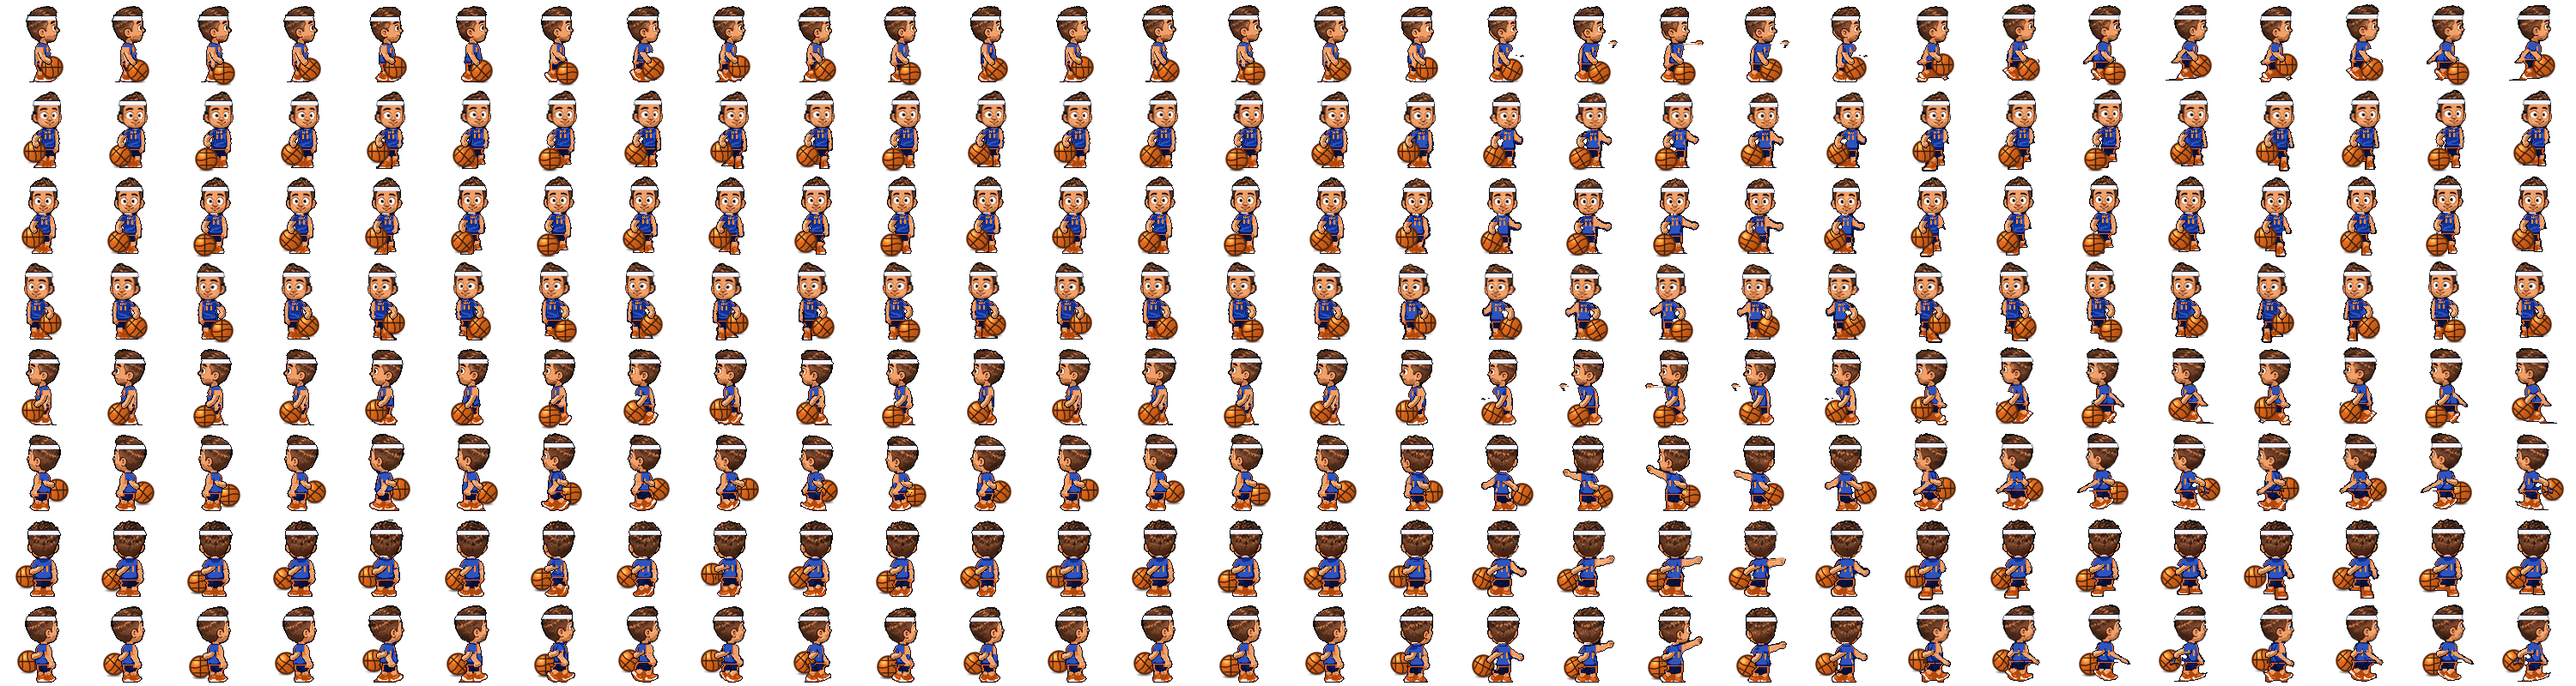
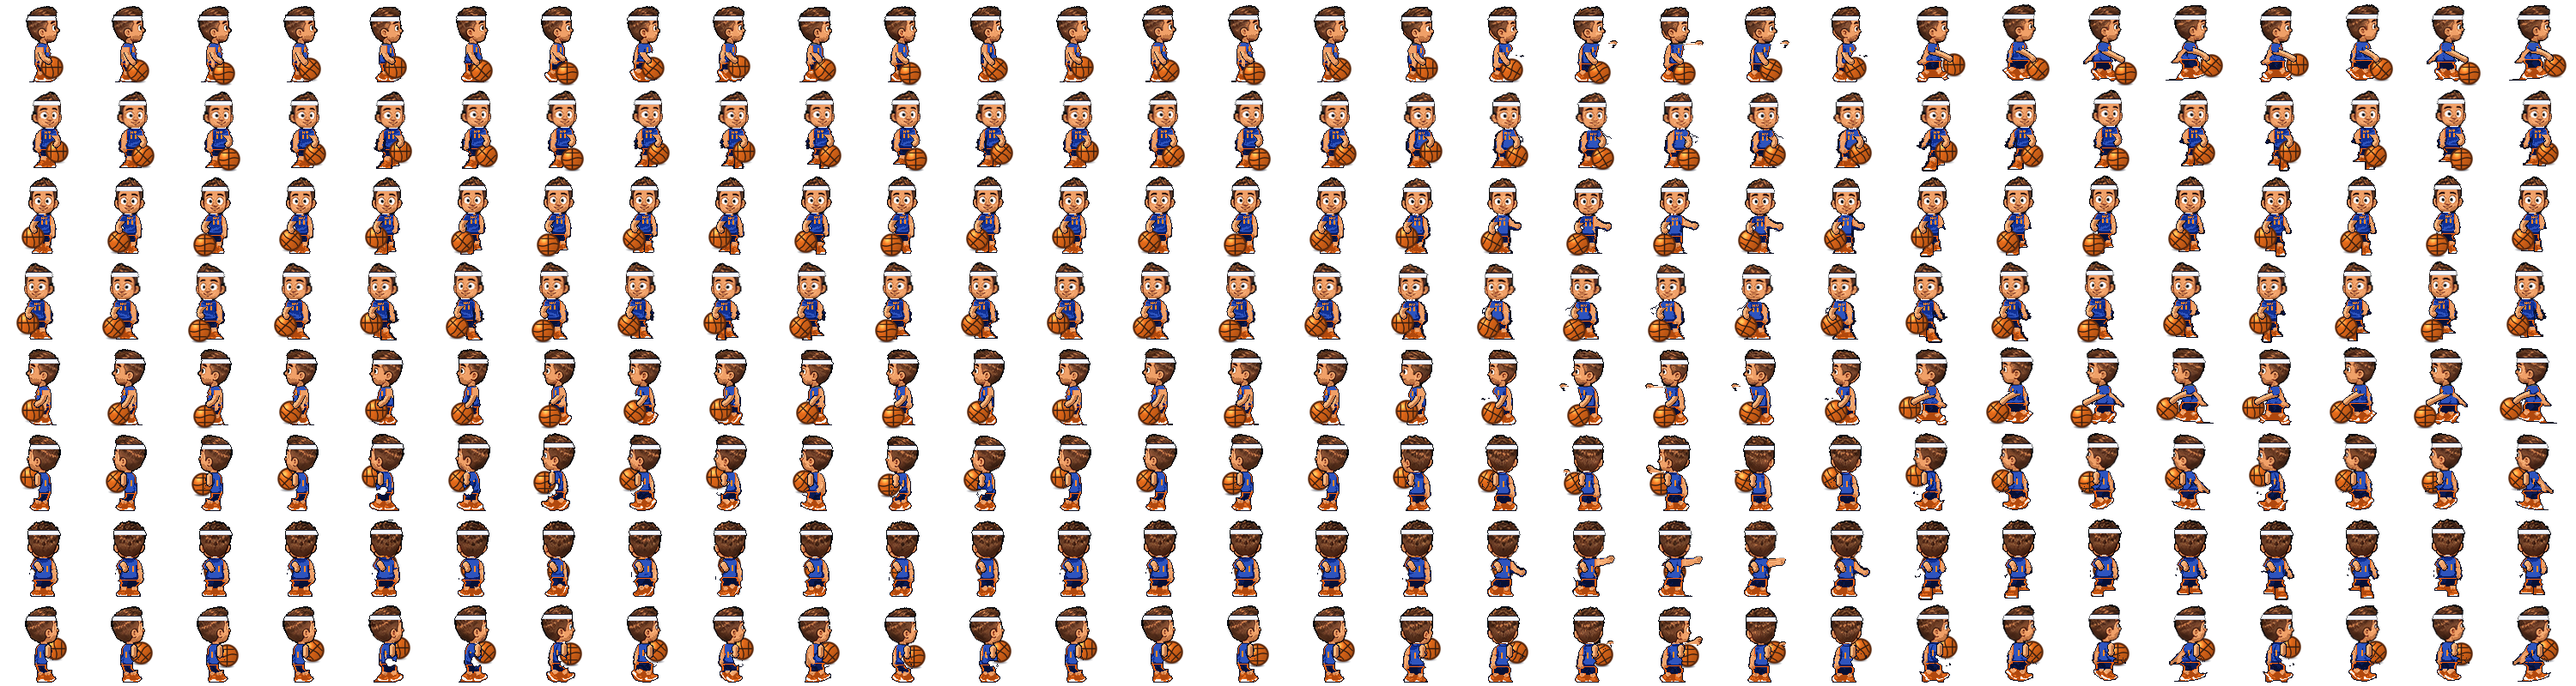
Lead the ball along the facing direction.
Northeast and northwest dribbles sit up and to the side he faces, north
stays high behind the torso, and an east or west run pushes the ball
past the lead foot. The back-view arm is one straight limb, and every
frame checks that the ball leads the body.

diff --git a/phaser-tag-client/tools/make_basketball_skin.py b/phaser-tag-client/tools/make_basketball_skin.py
@@ -25,8 +25,9 @@ filled. The other arm is unchanged. At most two arms are visible.
   5. an orange basketball, still a circle, dribbled on every frame.
      Seams are pre-rendered at a few rotations so the spin stays crisp.
      The ball stays in front of him along the way he faces: lower on
-     screen when he faces the camera, just ahead of the front foot in
-     profile, and behind the body when he faces away.
+     screen when he faces the camera, ahead of the front foot in
+     profile (further ahead on a run), and higher on screen, partly
+     behind the body, when he faces away.
 
 Face, hair and neck (under the headband) are James's.
 
@@ -731,10 +732,12 @@ def _dribble_side(direction: str) -> float:
 def _layout(g: Geometry, direction: str):
     """Rest pose and the ball's high/low centres.
 
-    The arm hangs. Its hand sits on the crown of the ball at the top of
-    the bounce, and the ball drops to the ground without the arm chasing.
+    The ball leads him in the direction he faces. On a back view that is
+    higher on the screen, partly behind the torso. The arm hangs to the
+    hand, which sits on the crown of the ball at the top of the bounce.
     """
-    side = _dribble_side(direction)
+    side = _ball_side(direction)
+    fx, fy = _FACE[direction]
     cx, neck, hem = float(g.head_cx), float(g.neck), float(g.hem)
     floor_y = 98.0 - BALL_R
     if direction in PROFILE:
@@ -745,17 +748,38 @@ def _layout(g: Geometry, direction: str):
         ball = (cx + face * 11.0, hem - 4.0)
         low = min(hem + 6.0, floor_y)
     elif direction in BACK:
-        # the limb stays behind the torso; the mitt is what peeks out
-        shoulder = (cx + side * 2.5, neck + 9.0)
-        elbow = (cx + side * 3.5, neck + 16.0)
-        hand = (cx + side * 12.0, hem - 18.0)
-        ball = (cx + side * 16.5 + _FACE[direction][0] * 2.0, hem - 12.0)
-        low = hem - 6.0
+        # Higher than the hips, and off to the side he is facing, so the
+        # ball leads him. North has nowhere to go sideways, so it sits
+        # behind the chest. The arm travels one way, down and out to the
+        # near side of the ball. A hook back up splits the limb and leaves
+        # a navy gap where the shirt shows through.
+        if fx == 0.0:
+            ball_x = cx + side * 1.0
+            high_y = neck + 8.0
+            shoulder = (cx + side * 8.0, neck + 8.0)
+            hand = (ball_x + side * 4.0, high_y + 5.0)
+        else:
+            ball_x = cx + fx * 15.0
+            high_y = neck + 6.0
+            # A near-vertical arm. A sideways one is a wide slab on
+            # screen, and the jersey shows through the steps.
+            shoulder = (cx + side * 7.0, neck + 5.0)
+            # The mitt stops on the ball. A longer arm ran past it and
+            # left the hand dangling under the ball.
+            hand = (ball_x - side * 8.0, high_y + 7.0)
+        low = high_y + 8.0
+        # Straight, so the outline is one capsule and not a kink.
+        elbow = (
+            (shoulder[0] + hand[0]) * 0.5,
+            (shoulder[1] + hand[1]) * 0.5,
+        )
+        ball = (ball_x, high_y)
     elif direction in ("SE", "SW"):
-        shoulder = (cx + side * 8.5, neck + 7.0)
-        elbow = (cx + side * 13.5, hem - 19.0)
-        hand = (cx + side * 11.5, hem - 14.0)
-        ball = (cx + side * 13.0, hem - 6.0)
+        # In front of him: lower on screen, and to the side he faces.
+        shoulder = (cx + fx * 8.5, neck + 7.0)
+        elbow = (cx + fx * 13.5, hem - 19.0)
+        hand = (cx + fx * 11.5, hem - 14.0)
+        ball = (cx + fx * 13.0, hem - 6.0)
         low = min(hem + 5.0, floor_y)
     else:
         shoulder = (cx + side * 8.0, neck + 7.0)
@@ -1155,14 +1179,17 @@ def draw_dribble_arm(rgba: np.ndarray, g: Geometry, direction: str,
 
     # the root sits under the jersey so the limb grows out of the body
     # instead of a floating cap. Those pixels are his, put back as they were.
+    # A back-view arm is short and lies on the ball. Putting the shirt back
+    # over that root was slicing the limb and leaving a navy shard.
     base = premul(rgba)
     tucked = to_u8(over(base, layer))
     if forearm_only:
         ex, ey = elbow
         near = (np.hypot(X - ex, Y - ey) <= 3.0) & (rgba[..., 3] > 200)
-    else:
+        tucked[near] = rgba[near]
+    elif direction not in BACK:
         near = (np.hypot(X - sx, Y - sy) <= 5.2) & (Y <= sy + 1.5) & (rgba[..., 3] > 200)
-    tucked[near] = rgba[near]
+        tucked[near] = rgba[near]
     rgba[...] = tucked
 
 
@@ -1626,9 +1653,14 @@ def _dribble_skin(src: np.ndarray, g: Geometry, direction: str,
 
 
 def _ball_side(direction: str) -> float:
-    """Screen side of the hand on the ball. In profile that is the way he faces."""
-    if direction in PROFILE:
-        return float(PROFILE[direction])
+    """Screen side of the hand on the ball.
+
+    That is the way he faces. North and south have no sideways facing, so
+    the hand stays on the non-tagging side.
+    """
+    fx = _FACE[direction][0]
+    if fx != 0.0:
+        return fx
     return _dribble_side(direction)
 
 
@@ -1708,9 +1740,10 @@ def fold_dribble_limb(src: np.ndarray, g: Geometry, direction: str) -> tuple[np.
     dark = (f[..., 3] > 40) & (L < 70)
     exterior = ((limb | (near & dark)) & ~core)
     # shirt-like, so paint_uniform treats the covered torso as cloth
-    f[interior, 0] = 96
-    f[interior, 1] = 96
-    f[interior, 2] = 80
+    # A real jersey colour, so a pixel paint misses is still in the palette.
+    f[interior, 0] = int(JERSEY_MID[0])
+    f[interior, 1] = int(JERSEY_MID[1])
+    f[interior, 2] = int(JERSEY_MID[2])
     f[interior, 3] = 255
     f[exterior] = 0
 
@@ -1726,9 +1759,9 @@ def fold_dribble_limb(src: np.ndarray, g: Geometry, direction: str) -> tuple[np.
             x1 = int(xs[i + 1])
             if x1 <= x0 or not core[y, x0:x1].all():
                 continue
-            f[y, x0:x1, 0] = 96
-            f[y, x0:x1, 1] = 96
-            f[y, x0:x1, 2] = 80
+            f[y, x0:x1, 0] = int(JERSEY_MID[0])
+            f[y, x0:x1, 1] = int(JERSEY_MID[1])
+            f[y, x0:x1, 2] = int(JERSEY_MID[2])
             f[y, x0:x1, 3] = 255
     kept = core & ((src[..., 3] > 40) | interior)
     return f, kept
@@ -1838,15 +1871,41 @@ def prepare_james(src: np.ndarray, g: Geometry, direction: str) -> tuple[np.ndar
     return out, kept
 
 
+def _lead_x(body: np.ndarray, g: Geometry, face: float) -> float:
+    """The toe that is furthest along the way he faces."""
+    a = body[..., 3] > 180
+    h = a.shape[0]
+    y0 = max(0, int(g.hem) - 4)
+    y1 = min(h, int(round(g.hem)) + 16)
+    best = None
+    for y in range(y0, y1):
+        xs = np.nonzero(a[y])[0]
+        if len(xs) < 3:
+            continue
+        x = float(xs[-1] if face > 0 else xs[0])
+        if best is None or (face > 0 and x > best) or (face < 0 and x < best):
+            best = x
+    if best is None:
+        return float(g.head_cx + face * 12.0)
+    return best
+
+
 def _pose(body: np.ndarray, g0: Geometry, direction: str, anim: str, index: int):
     t = bounce_t(anim, index)
     shoulder, elbow, rest_hand, high, low, _side = _layout(g0, direction)
-    if direction in BACK:
-        shoulder, elbow, rest_hand, high, low = _tuck_back(
-            body, g0, direction, shoulder, elbow, rest_hand, high, low)
     hand = _flick_hand(elbow, rest_hand, t)
     bx = high[0] * (1.0 - t) + low[0] * t
     by = high[1] * (1.0 - t) + low[1] * t
+    # A run stride leaves the standing dribble inside the legs, at the
+    # back knee. Push the ball, and the hand on it, out past the lead toe.
+    if anim == "run" and direction in PROFILE:
+        face = float(PROFILE[direction])
+        target = _lead_x(body, g0, face) + face * 6.0
+        if (target - bx) * face > 2.0:
+            shift = target - bx
+            bx = target
+            hand = (hand[0] + shift, hand[1])
+            elbow = (elbow[0] + shift * 0.7, elbow[1])
     margin = BALL_R + 0.6
     bx = float(np.clip(bx, margin, 100.0 - margin))
     by = float(np.clip(by, margin, 100.0 - margin))
@@ -2329,6 +2388,80 @@ def green_pixels(merged: np.ndarray, g: Geometry, bx: float, by: float) -> int:
     return int(green.sum())
 
 
+def arm_shard(merged: np.ndarray, g: Geometry, direction: str) -> str:
+    """Navy or orange showing through a split in one arm.
+
+    A gap only a few pixels wide, with skin on both sides, is the limb
+    folding back on itself. The shirt between the two arms is much wider
+    and is not a shard.
+    """
+    h, w = merged.shape[:2]
+    yy = np.arange(h)[:, None]
+    skin = _skin_mask_flat(merged)
+    skin &= (yy > g.neck + 2) & (yy < g.hem - 1)
+    if not skin.any():
+        return ""
+    rgb = merged[..., :3]
+    cloth = np.zeros((h, w), dtype=bool)
+    for col in (JERSEY_LIGHT, JERSEY_MID, JERSEY_SHADOW, ORANGE, ORANGE_HOT, INK):
+        cloth |= (
+            (rgb[..., 0] == int(col[0]))
+            & (rgb[..., 1] == int(col[1]))
+            & (rgb[..., 2] == int(col[2]))
+        )
+    cloth &= merged[..., 3] > 200
+    # Only the ball side. The jersey between the two arms is not a shard,
+    # and a profile keeps both arms close enough to trip a looser test.
+    side = _ball_side(direction)
+    cx = float(g.head_cx)
+    hits = 0
+    band = cloth & (yy > g.neck + 2) & (yy < g.hem - 1)
+    ys, xs = np.nonzero(band)
+    for y, x in zip(ys.tolist(), xs.tolist()):
+        if (float(x) - cx) * side <= 0.0:
+            continue
+        left = right = False
+        for d in range(1, 4):
+            if x - d >= 0 and skin[y, x - d] and (float(x - d) - cx) * side > 0.0:
+                left = True
+            if x + d < w and skin[y, x + d] and (float(x + d) - cx) * side > 0.0:
+                right = True
+        if left and right:
+            hits += 1
+    if hits < 4:
+        return ""
+    return f"{hits}px navy shard in the arm"
+
+
+def facing_fault(merged: np.ndarray, g: Geometry, bx: float, by: float, direction: str) -> str:
+    """Ball centre relative to the body must lead along the facing vector.
+
+    E is +x, NE is +x and -y (up the screen), N is -y. A component that
+    the facing vector leaves at 0 is free, so a south dribble can sit to
+    one side as long as it is in front of him.
+    """
+    h, w = merged.shape[:2]
+    yy, xx = np.mgrid[0:h, 0:w]
+    ball = (xx - bx) ** 2 + (yy - by) ** 2 <= (BALL_R + 2.0) ** 2
+    # The head sits above every dribble. "Higher on screen" is versus the
+    # torso and legs, which is the body the ball leads.
+    body = (merged[..., 3] > 200) & ~ball & (yy > g.neck)
+    ys, xs = np.nonzero(body)
+    if len(xs) < 40:
+        return ""
+    dx = bx - float(xs.mean())
+    dy = by - float(ys.mean())
+    fx, fy = _FACE[direction]
+    bits = []
+    if fx != 0.0 and dx * fx < 6.0:
+        bits.append(f"dx {dx:.1f} against {fx:+.0f}")
+    if fy != 0.0 and dy * fy < 4.0:
+        bits.append(f"dy {dy:.1f} against {fy:+.0f}")
+    if not bits:
+        return ""
+    return f"ball ({dx:+.1f},{dy:+.1f}) " + ", ".join(bits)
+
+
 def main():
     ap = argparse.ArgumentParser()
     ap.add_argument("--preview", type=Path, help="write a labelled contact sheet")
@@ -2358,11 +2491,15 @@ def main():
             green = green_pixels(cell, g, bx, by)
             # the filled chest must stay opaque
             open_chest = int((kept & (cell[..., 3] <= 40)).sum())
-            if arms > 2 or off or specks or green or holes or open_chest:
+            facing = facing_fault(cell, g, bx, by, direction)
+            shard = arm_shard(cell, g, direction)
+            if arms > 2 or off or specks or green or holes or open_chest or facing or shard:
                 problems.append(
                     f"{direction} {anim} {index} (col {c}): "
                     f"{arms} arms, {off} off-palette, {specks} speckles, "
                     f"{green} green, {open_chest} chest holes"
+                    + (f", {facing}" if facing else "")
+                    + (f", {shard}" if shard else "")
                 )
     if problems:
         print("frame check failed:")
@@ -2370,7 +2507,7 @@ def main():
             print(" ", line)
         print(f"  ({len(problems)} frames)")
         raise SystemExit(1)
-    print(f"frame check ok ({len(dirs) * cols} frames: arms <= 2, palette, no speckles)")
+    print(f"frame check ok ({len(dirs) * cols} frames: arms <= 2, palette, facing, no shards)")
     Image.fromarray(out).save(ASSETS / "kid_basketball.png", optimize=True)
     bb = dict(meta)
     bb["image"] = "kid_basketball.png"

diff --git a/phaser-tag-client/README.md b/phaser-tag-client/README.md
@@ -339,8 +339,10 @@ skin carries its own frame size and feet line. Animation keys are
   James's own arm width from the shoulder down to the ball, and the torso
   under that arm stays filled, so a frame never shows a second skinny limb.
   An orange basketball is dribbled in every animation. The ball stays a
-  circle and leads him in the direction he faces, close to the
-  dribbling-side foot (behind the body when he faces away). The hand flicks
+  circle and leads him in the direction he faces: lower on screen when he
+  faces the camera, ahead of the front foot in profile (further ahead on a
+  run), and higher on screen, partly behind the body, when he faces away.
+  The hand flicks
   the ball and the seams turn a little each bounce. Footsteps
   are a gym-floor sneaker squeak (`basketballStep`). Re-run:
   `python3 tools/make_basketball_skin.py [--preview /tmp/basketball.png]`.
